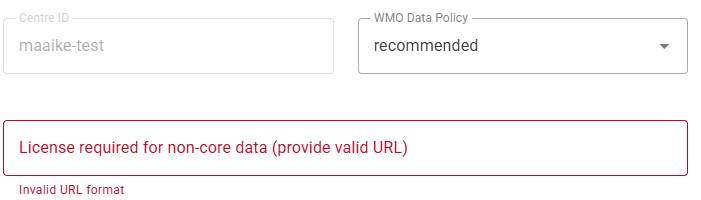
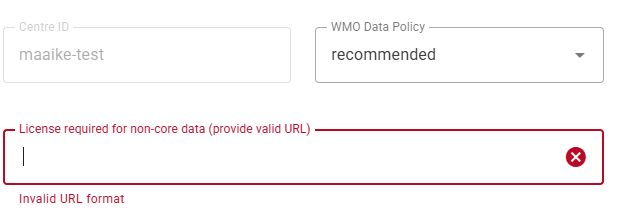
update text on recommended, add screenshots

diff --git a/docs/source/user/recommended.rst b/docs/source/user/recommended.rst
@@ -4,33 +4,34 @@ Adding a license to recommended datasets
 ========================================
 
 Data are shared on WIS2 in accordance with the WMO Unified Data Policy (Resolution 1 (Cg-Ext(2021))). 
-This data policy describes two categories of data: 
+This data policy describes two categories of data:
+
 - **core** : data that is provided on a free and unrestricted basis, without charge and with no conditions on use.
 - **recommended** : data that may be provided with conditions on use and/or subject to a license.
 
-The WMO data policy is specified by the discovery metadata of the dataset. 
+Data that is shared as **core** is cached by the WIS2 Global Caches and available for download by the general public.
 
-Recommended data:
+Data that is shared with the WMO Data Policy **recommended**:
 
 - May be subject to conditions on use and reuse;
 - May have access controls applied to the data;
 - Are not cached within WIS2 by the Global Caches;
 - Must have a link to a license specifying the conditions of use of the data included in the discovery metadata.
 
-When using the wis2box-webapp, you select in the data-policy during the initial dataset creation step:
+The WMO data policy is specified by the discovery metadata of the dataset. When using the wis2box-webapp, you select the WMO data policy during the initial dataset creation step:
 
 .. image:: ../_static/wis2box-webapp_data_policy_selection.png
    :alt: Data Policy Selection
    :width: 350
 
-**Datasets containing aeronautical meteorological information should be considered recommended data for the purposes of publishing through WIS2**.
+**Note that datasets containing aeronautical meteorological information should be considered recommended data for the purposes of publishing through WIS2**.
 For this reason, the wis2box-webapp will automatically set the data policy to recommended for datasets containing **weather/aviation** in the topic hierarchy.
 
 When the WMO Data Policy is set to **recommended** , the wis2box-webapp will required you to provide a link to the license that applies to the dataset:
 
 .. image:: ../_static/wis2box-webapp_data_policy_license.png
    :alt: Data Policy License
-   :width: 700
+   :width: 600
 
 You can provide a link to a license hosted on your own website, or you can use one of the standard licenses available online, such as the Creative Commons licenses (https://creativecommons.org/licenses/).
 
@@ -45,16 +46,76 @@ To upload a locally created file `license.txt` you can use the `MinIO Console` a
 Note that the MinIO Console is not proxied via wis2box web-proxy; you can only access it directly using the IP address or hostname of your wis2box instance,
  on the local network or via a VPN connection.
 
-You can find the credentials to access the MinIO Console in the `wis2box.env` file, as follows:
+The credentials to access the MinIO Console in the `wis2box.env` file are defined by WIS2BOX_STORAGE_USERNAME and WIS2BOX_STORAGE_PASSWORD environment variables.
+
+You can find these in the `wis2box.env` file as follows:
 
 .. code-block:: bash
 
    cat wis2box.env | grep WIS2BOX_STORAGE_USERNAME
    cat wis2box.env | grep WIS2BOX_STORAGE_PASSWORD
 
-Once you have logged in to the MinIO Console, you can upload the license file into the `wis2box-public` bucket.
+Once you have logged in to the MinIO Console, you can upload the license file into basepath of the `wis2box-public` bucket using the "Upoload" button:
+
+.. image:: ../_static/minio-wis2box-public-basepath.png
+   :alt: MinIO Upload License
+   :width: 800
 
 After uploading the license file, check if the file is accessible by visiting the URL:
 `WIS2BOX_URL/data/<license-file-name>`
 
-If the file is accessible, you can use the URL `WIS2BOX_URL/data/<license-file-name>` as the link to the license in the dataset creation step in the wis2box-webapp.
+After verifying the URL correctly displays the license you uploaded, you can use this URL in the wis2box-webapp:
+
+.. image:: ../_static/wis2box-webapp_data_policy_local_license_url.png
+   :alt: Example showing a custom license hosted on the wis2box instance
+   :width: 600
+
+Applying access control using wis2box
+-------------------------------------
+
+All dataset in wis2box are open by default. The wis2box software provides the option to apply access control to a dataset using an access token.
+
+Access control can be configured using the use the command line available within the wis2box-management container.
+
+To login to the wis2box-management container, run the following command from the wis2box-directory:
+
+.. code-block:: bash
+
+   cd ~/wis2box
+   python3 wis2box-ctl.py login
+
+To create an randomly generated access token for your dataset, run the following command:
+
+.. code-block:: bash
+
+    wis2box auth add-token --metadata-id urn:wmo:md:my-centre-id:my-local-id
+
+Where `urn:wmo:md:my-centre-id:my-local-id` is the metadata identifier of your dataset.
+
+To specify the token yourself you can add this an additional argument, for example the add the token `S3CR3TT0K3N`:
+
+.. code-block:: bash
+
+    wis2box auth add-token --metadata-id urn:wmo:md:my-centre-id:my-local-id S3CR3TT0K3N
+
+Token credentials can be validated using the wis2box command line utility.
+
+.. code-block:: bash
+
+    wis2box auth has-access-topic --metadata-id urn:wmo:md:my-centre-id:my-local-id S3CR3TT0K3N
+
+Once a token has been generated, attempting to download data published for that dataset will result in 403 Forbidden error if no or incorrect token is provided.
+
+To download access-controlled data, tokens need to be passed in the Authentication header. For example to use the token `S3CR3TT0K3N` to download data from the WAF using `wget` you would use the following command:
+
+.. code-block:: bash
+
+    wget --header= "Authorization: Bearer mytoken" "https://www.mywis2box.com/data/urn:wmo:md:my-centre-id:my-local-id/mydata.bufr4"
+
+To remove access control from a dataset, you can use the following command:
+
+.. code-block:: bash
+
+    wis2box auth remove-token --metadata-id urn:wmo:md:my-centre-id:my-local-id
+
+This will remove all tokens for the specified dataset, making it accessible without authentication.
